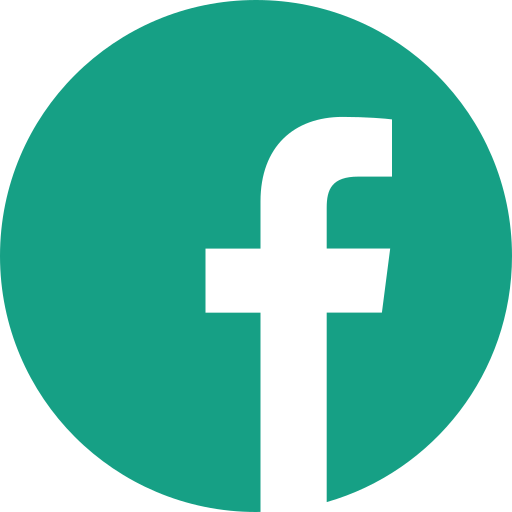
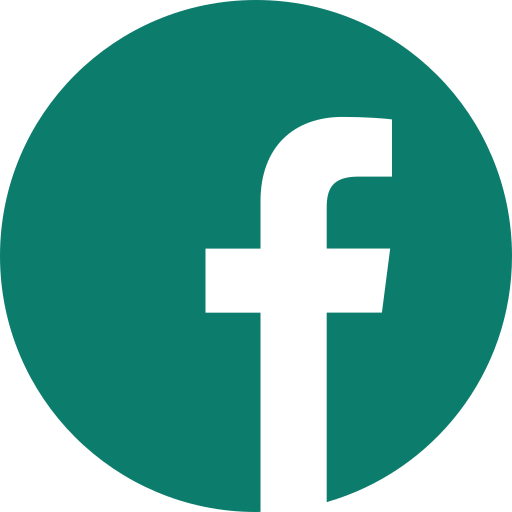
Simple Update
Melhorias na paleta de cores.
Alterei para as cores originais da ACAD.

diff --git a/css/bootstrap.css b/css/bootstrap.css
@@ -493,7 +493,7 @@ progress {
   max-height: 50px;
 }
 .celula-link{
-  background-color:#16a085;
+  background-color:#0c7c6c;
   max-width: 300px;
   padding-top: 20px;
   padding-bottom: 20px;
